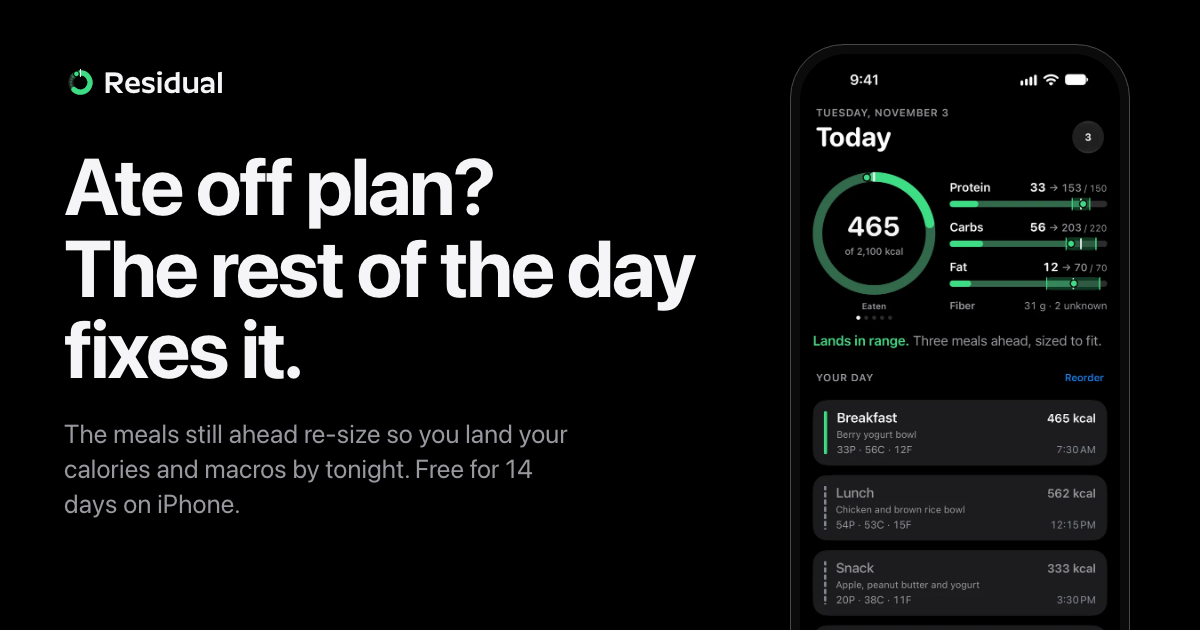
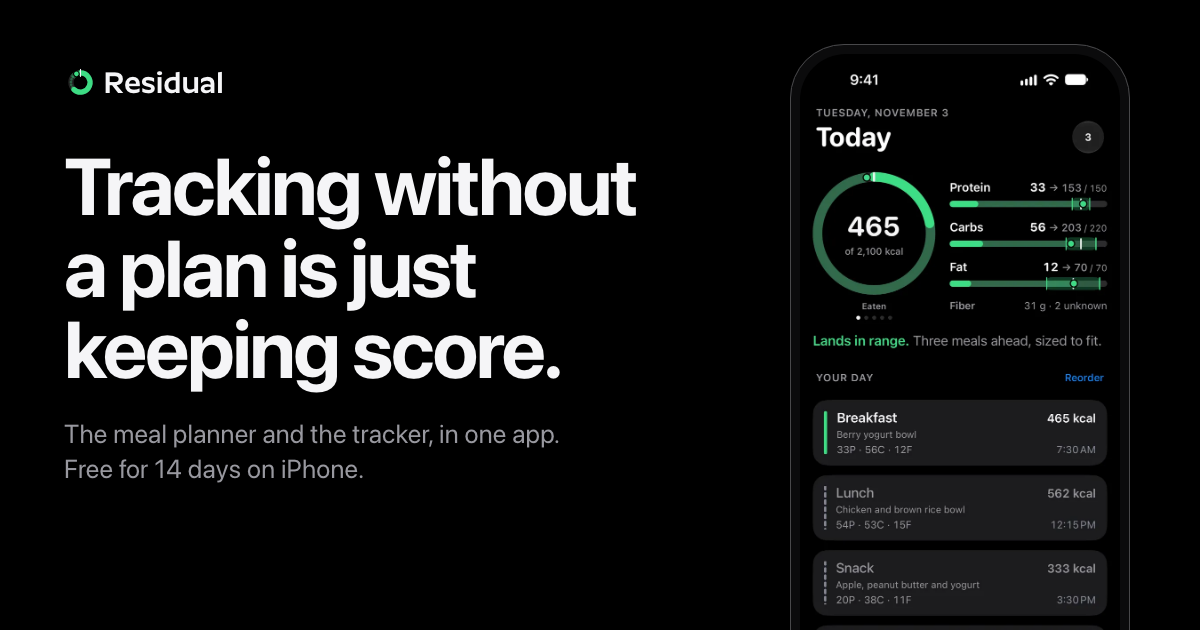
the hero says the position: tracking without a plan is just keeping score (2026-11-03, Clark: "tracking is useless without a plan"; "we look at both sides"). Under it, Residual is the meal planner and the tracker in one app, with a Plan row and a Track row in the ring's own legend: the plan's ghost 

Changed region(s): [[0.0308, 0.2413, 0.5858, 0.6333], [0.0308, 0.6635, 0.4625, 0.8143]]

diff --git a/src/content/faq.ts b/src/content/faq.ts
@@ -12,7 +12,7 @@ const priceList = `${prices.slice(0, -1).join(', ')} or ${prices.at(-1)}`;
 export const faq: Faq[] = [
   { tab: 'Residual', q: 'What is Residual?', a: 'Residual is an iPhone meal planner and tracker that uses AI to plan your day and keep it balanced, so you hit your calories and macros without playing the food puzzle. You set each target with its own range, and Claude drafts the day from your pantry, your saved meals and what you tell it. Log what you actually eat, and a deterministic solver re-sizes the meals still ahead so the day still lands inside your ranges. It also plans days ahead, builds the grocery list, scans barcodes and Nutrition Facts labels, and shares a meal sized to someone else\'s targets.', more: { href: '/features/', label: 'See everything it does' } },
   { tab: 'Drift', q: 'What if the day doesn\'t go to plan?', a: 'That is what Residual is for. Ate more than planned, less than planned, or something that was never in the plan: log what actually happened and the meals still ahead re-size by the smallest plausible change, so the day still lands where it needs to by tonight. The screen says where you\'ll land before you eat it. When the ranges can\'t be met, it says so plainly, "Dinner alone can\'t fully recover", rather than shrinking a food to a token portion.' },
-  { tab: 'Trackers', q: 'How is it different from MacroFactor, Cronometer or MyFitnessPal?', a: 'Most trackers record what you ate and show what\'s left, and working out what to eat with what\'s left is up to you. Residual plans the day, and when you go off plan it re-sizes the meals still ahead so you still land. It doesn\'t adjust your targets from your weight trend; it lands the targets you set, or the ones its TDEE calculator works out. It is younger, so there are gaps. It doesn\'t include every major food database: foods come from USDA FoodData Central and barcodes, and you can add any food yourself just by taking a picture of its Nutrition Facts label. There is also no dashboard for a nutritionist or trainer to follow along. Your data is never locked in: export any days as a CSV of eaten and planned grams per food, ready for a spreadsheet, your coach, or an AI to dig into.' },
+  { tab: 'Trackers', q: 'How is it different from MacroFactor, Cronometer or MyFitnessPal?', a: 'Most trackers record what you ate and show what\'s left, and working out what to eat with what\'s left is up to you. Residual starts with a plan that hits your targets, you track against it, and when you go off plan it re-sizes the meals still ahead so you still land. It doesn\'t adjust your targets from your weight trend; it lands the targets you set, or the ones its TDEE calculator works out. It is younger, so there are gaps. It doesn\'t include every major food database: foods come from USDA FoodData Central and barcodes, and you can add any food yourself just by taking a picture of its Nutrition Facts label. There is also no dashboard for a nutritionist or trainer to follow along. Your data is never locked in: export any days as a CSV of eaten and planned grams per food, ready for a spreadsheet, your coach, or an AI to dig into.' },
   { tab: 'Weight', q: 'Will it help me lose weight?', a: 'Your targets decide that; Residual helps you hit them. Weight changes when you eat below, at or above what you burn, day after day, and the days that wreck a plan are the ones that don\'t go to plan. Residual is built for those: log what really happened and the rest of the day re-sizes so you still land. Set a calorie target under what you burn, land it most days, and that is what moves the scale. It works the same way for cutting, bulking or holding steady.' },
   { tab: 'Logging', q: 'Is logging going to be a chore?', a: 'Less than you\'re used to. A planned meal arrives with its amounts already filled in, so a meal eaten as planned is one swipe. When something differed, open it and change just that food in 5 g steps. New foods come from a USDA search, a barcode scan, or a photo of the Nutrition Facts label, read on your iPhone.' },
   { tab: 'Scale', q: 'Do I need a food scale?', a: 'A scale is the most accurate, because every portion is stored as a weight. You don\'t need one: Residual shows portions in ounces, cups, tablespoons or millilitres too, so measuring cups and spoons work. And every target has a range, so close is good enough.' },

diff --git a/src/site.ts b/src/site.ts
@@ -11,13 +11,13 @@ export const site = {
   name: 'Residual',
   tagline: 'A day of eating, solved.',
   // The home page's <title>: the brand line plus the words people search for. Keep it near 60 characters.
-  homeTitle: 'Residual: A day of eating, solved. Macro meal planner for iPhone',
+  homeTitle: 'Residual: the macro meal planner and tracker for iPhone',
   // The default meta description. Keep it under about 160 characters so search results show it whole.
   description:
-    'An iPhone meal planner for your calorie and macro targets. Plan the day with Claude, log what you ate, and the meals ahead re-size so the day lands in range.',
+    'An iPhone meal planner and macro tracker in one app. Build a plan that hits your targets, log against it, and the meals ahead re-size to keep you on target.',
   // One plain sentence that says what Residual is: the definition answer engines and link previews quote.
   definition:
-    'Residual is an iPhone meal planner for people who eat to calorie and macro targets: it plans the day, and as you log what you actually ate, a deterministic solver re-sizes the meals still ahead so the day lands inside your ranges.',
+    'Residual is an iPhone meal planner and tracker for people who eat to calorie and macro targets: it builds a plan that hits them, and as you log what you actually ate, a deterministic solver re-sizes the meals still ahead so the day lands inside your ranges.',
   appStoreId,
   appStoreLive: appStoreId !== '',
   appStoreUrl: appStoreId ? `https://apps.apple.com/app/id${appStoreId}` : 'https://apps.apple.com/app/residual/id0000000000',
@@ -58,6 +58,6 @@ export const site = {
     "Share a meal by link or AirDrop, sized to the other person's targets",
     'Portions stored in grams, shown in grams, ounces, cups, tablespoons, teaspoons, millilitres or fluid ounces',
     'Private iCloud sync, no account, no tracking',
-    'CSV export of eaten and planned grams for your tracker or nutritionist',
+    'CSV export of eaten and planned grams for a spreadsheet or your nutritionist',
   ],
 };
